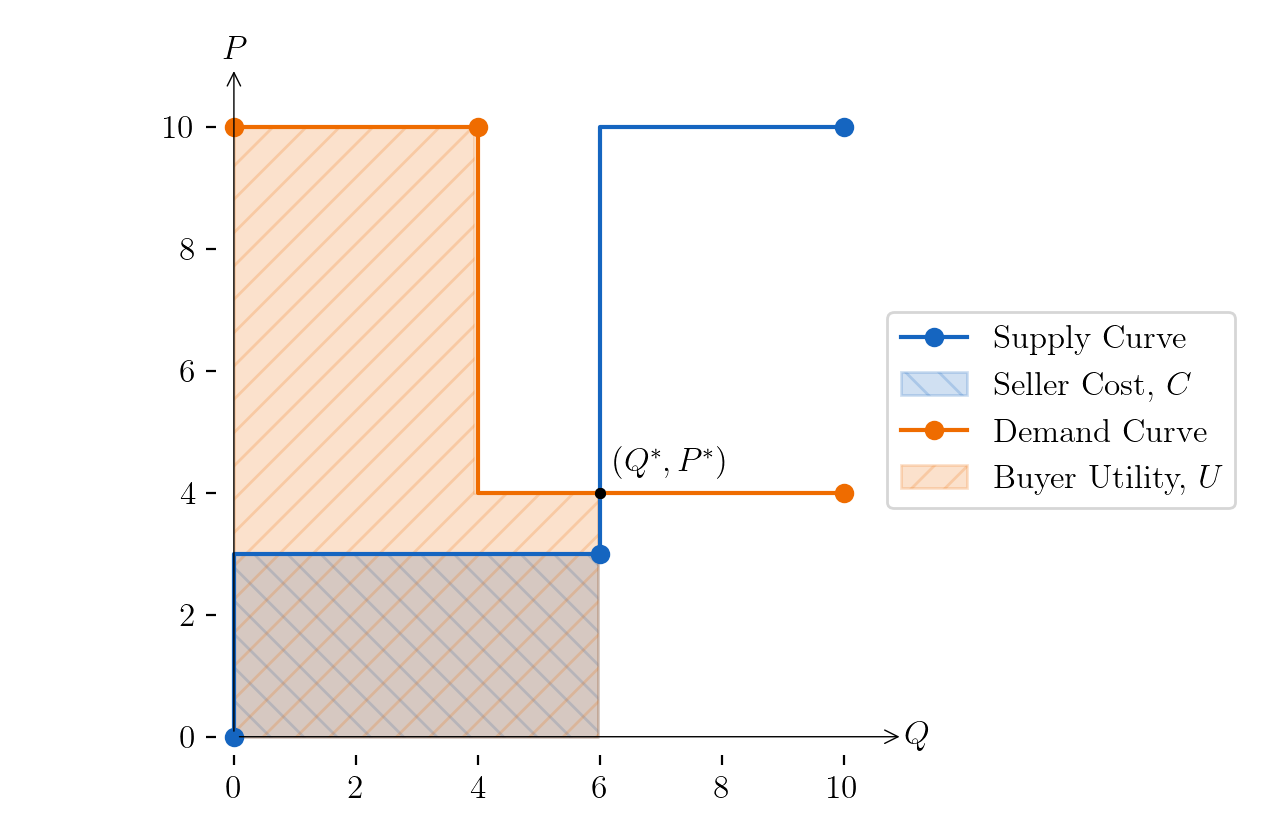
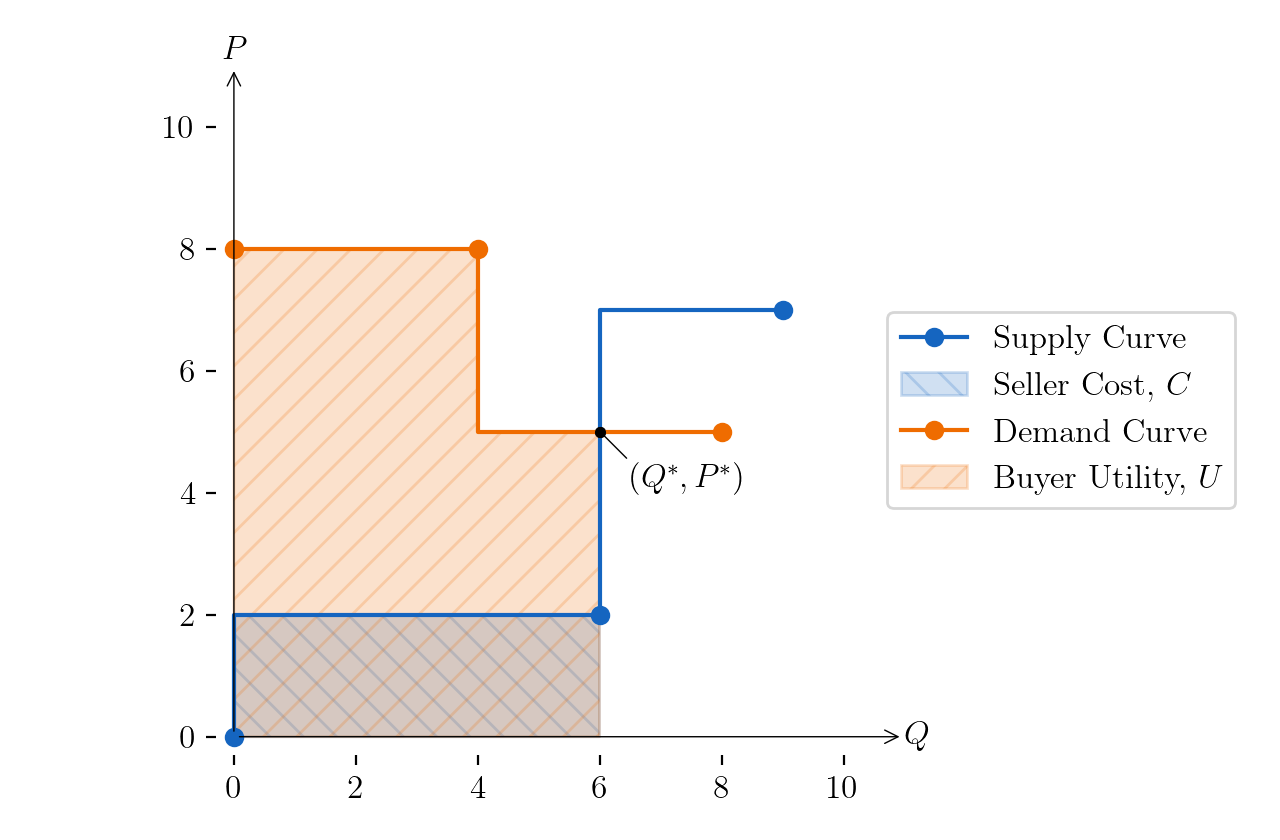
revise chapter 2 example/figures

diff --git a/2_supply_and_demand_of_electricity.md b/2_supply_and_demand_of_electricity.md
@@ -50,7 +50,7 @@ Loads and generators submit bids to buy power and offers to sell power, respecti
 
 If these sound similar to supply and demand curves, it's because they are! In an electricity market with one generator and one load, the generator's $(P_\mathrm{G}, Q_\mathrm{G})$ pairs would define the market's supply curve and the load's $(P_\mathrm{L}, Q_\mathrm{L})$ pairs would define the market's demand curve. The two curves' intersection determines the quantity $Q^*$ of power that will be delivered at the market-clearing price $P^*$, which maximizes $U - C$.
 
-Consider the example shown in {ref}`fig_2_2`. The generator says they are willing to produce up to 6 MW for \$3/MWh, or up to 10 MW for \$10/MWh. The load says they are willing to consume up to 4 MW for \$10/MWh, or up to 10 MW for \$4/MWh. The market clears at $Q^* = 6 \ \mathrm{MW}$ and $P^* = \$4/\mathrm{MWh}$.
+Consider the example shown in {ref}`fig_2_2`. The generator says they are willing to produce up to 6 MW for \$2/MWh, or up to 9 MW for \$7/MWh. The load says they are willing to consume up to 4 MW for \$8/MWh, or up to 8 MW for \$5/MWh. The market clears at $Q^* = 6 \ \mathrm{MW}$ and $P^* = \$5/\mathrm{MWh}$.
 
 ```{figure} img/fig_2_2.png
 :label: fig_2_2
@@ -88,6 +88,8 @@ $$
 U(Q_\mathrm{L1}, Q_\mathrm{L2}) = \int_0^{\, Q_\mathrm{L1}} p_\mathrm{L1}(q) \, \mathrm{d} q + \int_0^{\, Q_\mathrm{L2}} p_\mathrm{L2}(q) \, \mathrm{d} q
 $$
 
+This optimization problem can be simplified by splicing the generators and loads' price-quantity pairs into a unified supply curve and a unified demand curve, respectively.
+
 ```{figure} img/fig_2_4.png
 :label: fig_2_4
 
@@ -97,7 +99,7 @@ Price-quantity pairs of two generators and two loads, showing their optimal cost
 ```{figure} img/fig_2_5.png
 :label: fig_2_5
 
-Supply and demand curves spliced together from two generators and two loads, respectively, showing the resulting market-clearing price and quantity.
+Supply and demand curves spliced together from the price-quantity pairs of two generators and two loads, respectively, showing the resulting market-clearing price and quantity.
 ```
 
 ## The market network
